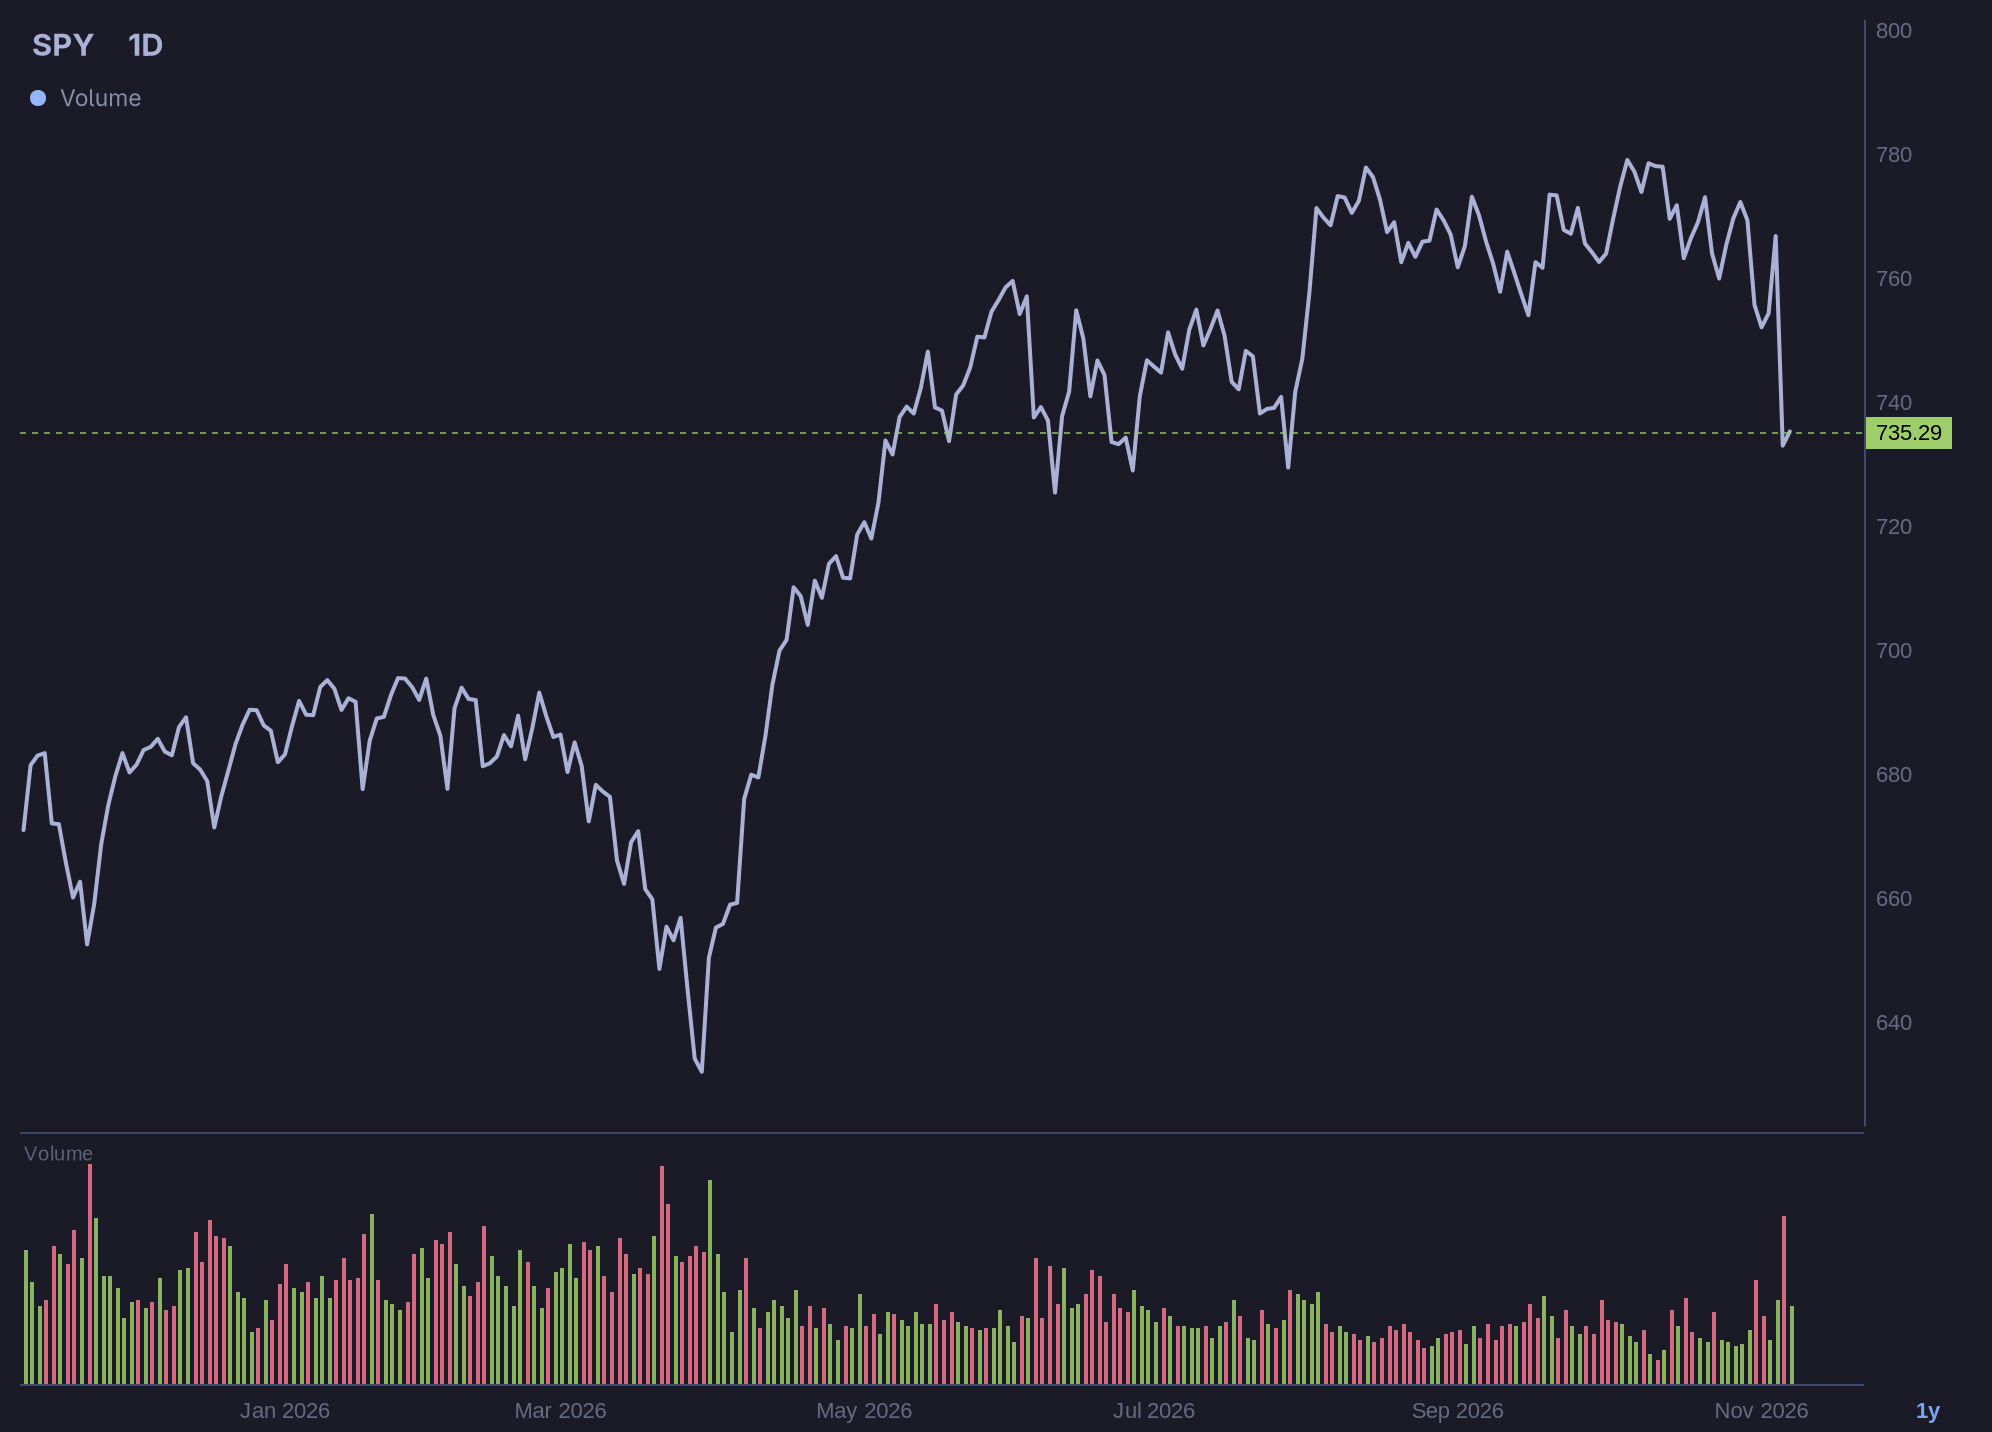
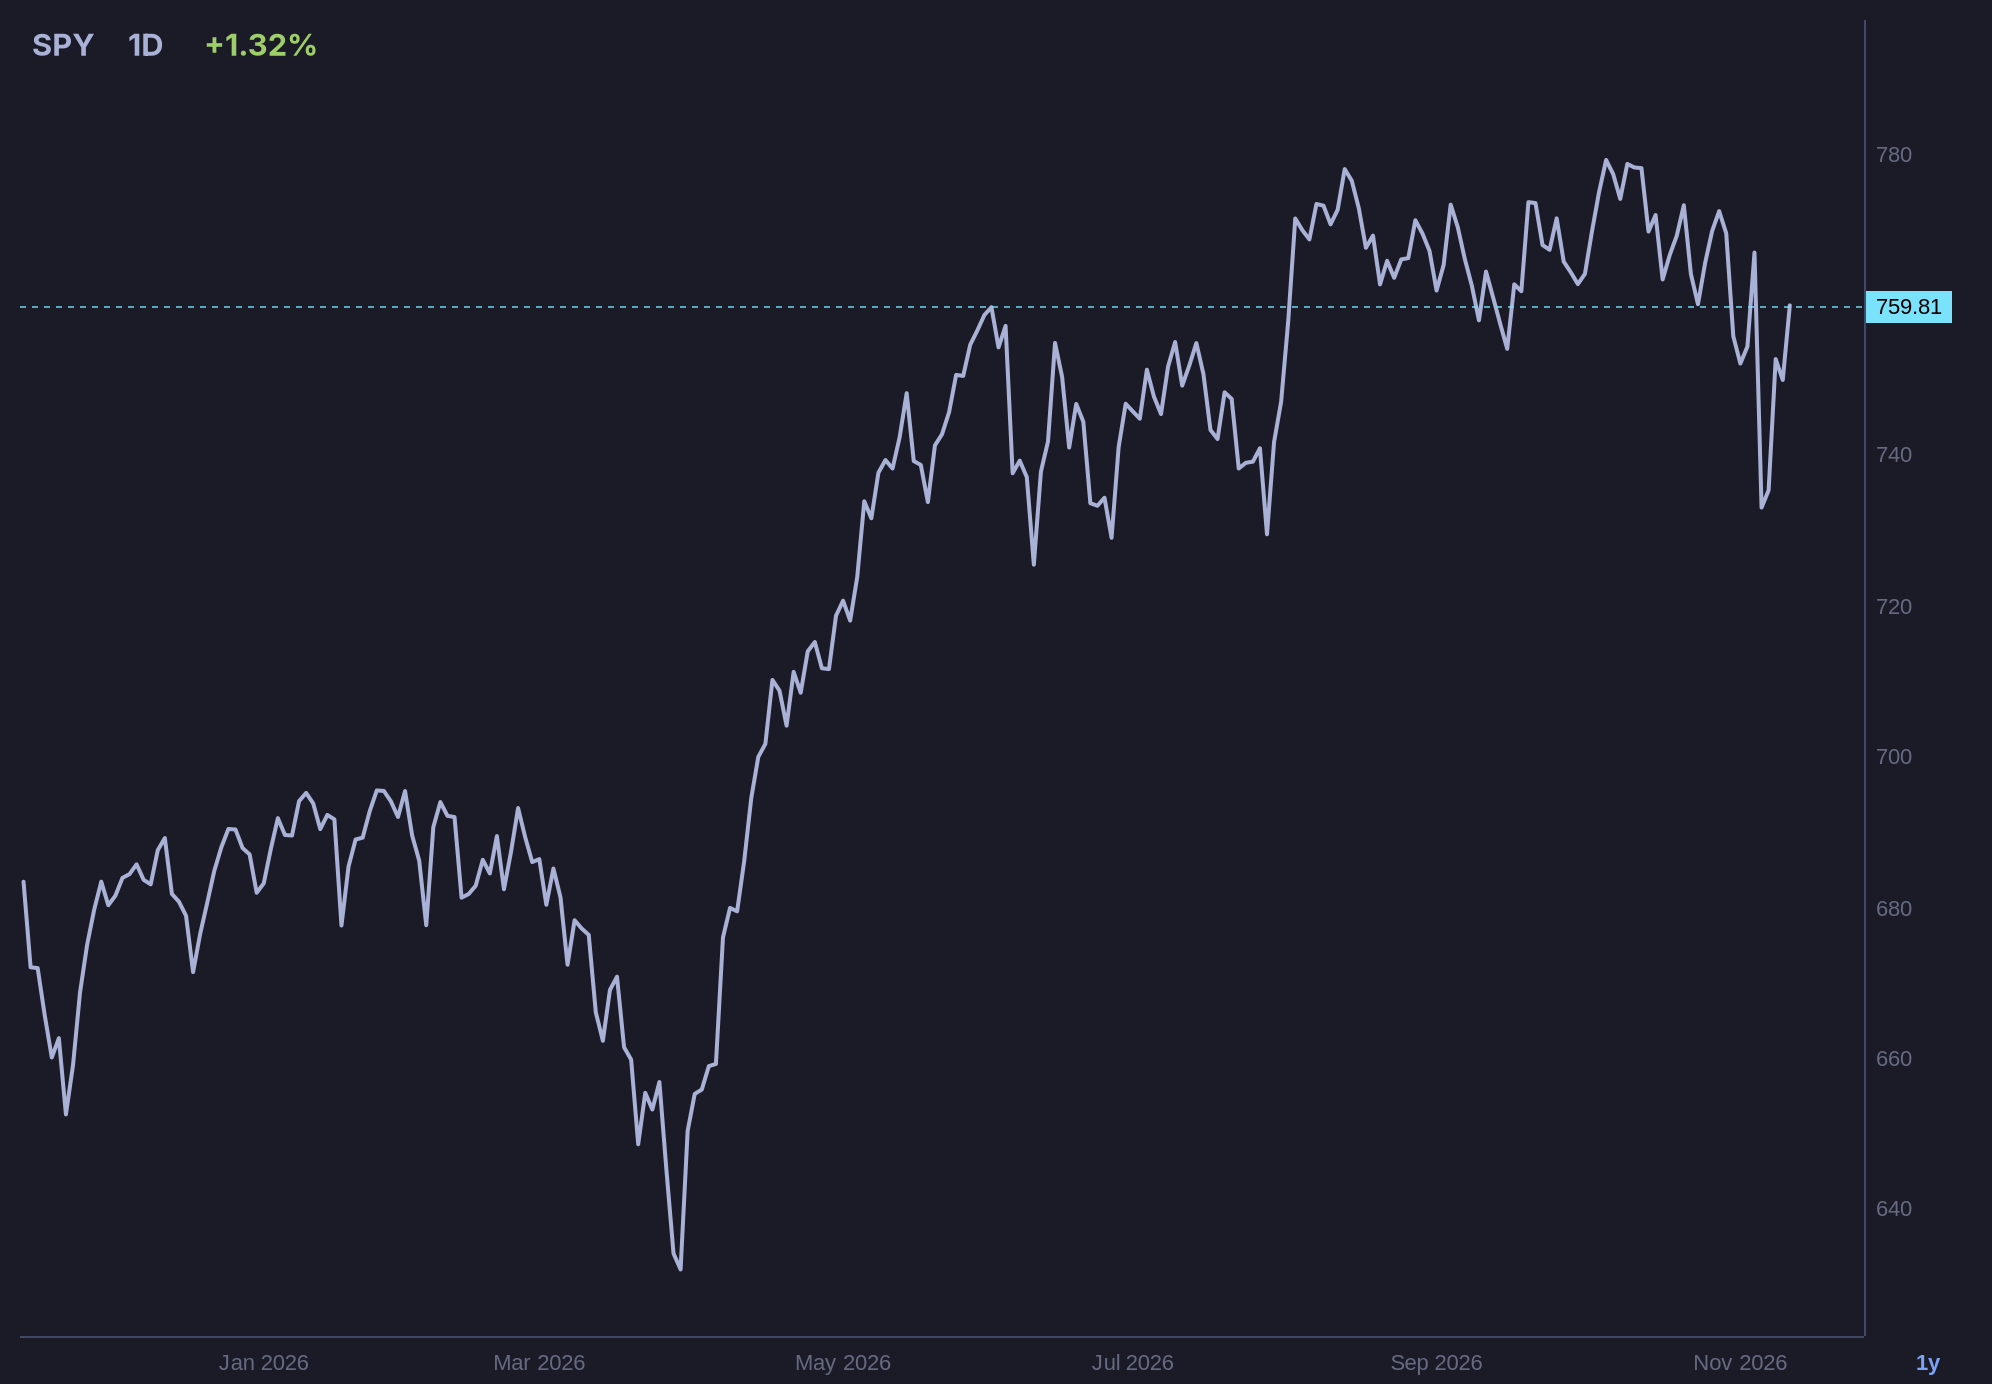
Retake the comparing and line screenshots from a vanilla profile
The legend no longer lists the chart's own symbol and keeps the markets in
the order they were added. The comparing recipe drops a volume removal a
fresh chart has nothing to remove for, and parks the pointer on the sidebar
so the legend reads the last bar. The line chart's alt text no longer
mentions a volume strip a fresh chart does not have.

diff --git a/site/manual/comparing.md b/site/manual/comparing.md
@@ -13,9 +13,9 @@ window: 2560x1440 @2, bin/headless-window (HOME sandboxed, theme seeded)
 state:
   omacharts chartbook create Compare --symbol SPY --switch
   omacharts chart set --resolution 1D --session regular
-  omacharts chart indicator remove volume
   omacharts chart compare add GC NQ BTC-USD
   omacharts chart range 1y
+  bin/headless-window move 1100 500   (pointer on the sidebar, so the legend reads the last bar)
 capture: bin/headless-window cli chart screenshot --output site/assets/manual/comparing/compared.png
 crop: none
 -->

diff --git a/site/manual/charts.md b/site/manual/charts.md
@@ -156,7 +156,7 @@ state:
 capture: bin/headless-window cli chart screenshot --output site/assets/manual/charts/daily-line.png
 crop: none
 -->
-{% include figure.html src="/assets/manual/charts/daily-line.png" alt="SPY daily over a year drawn as one line through the closes, with the volume strip below" caption="SPY as a line." %}
+{% include figure.html src="/assets/manual/charts/daily-line.png" alt="SPY daily over a year drawn as one line through the closes" caption="SPY as a line." %}
 
 ### Colouring
 
